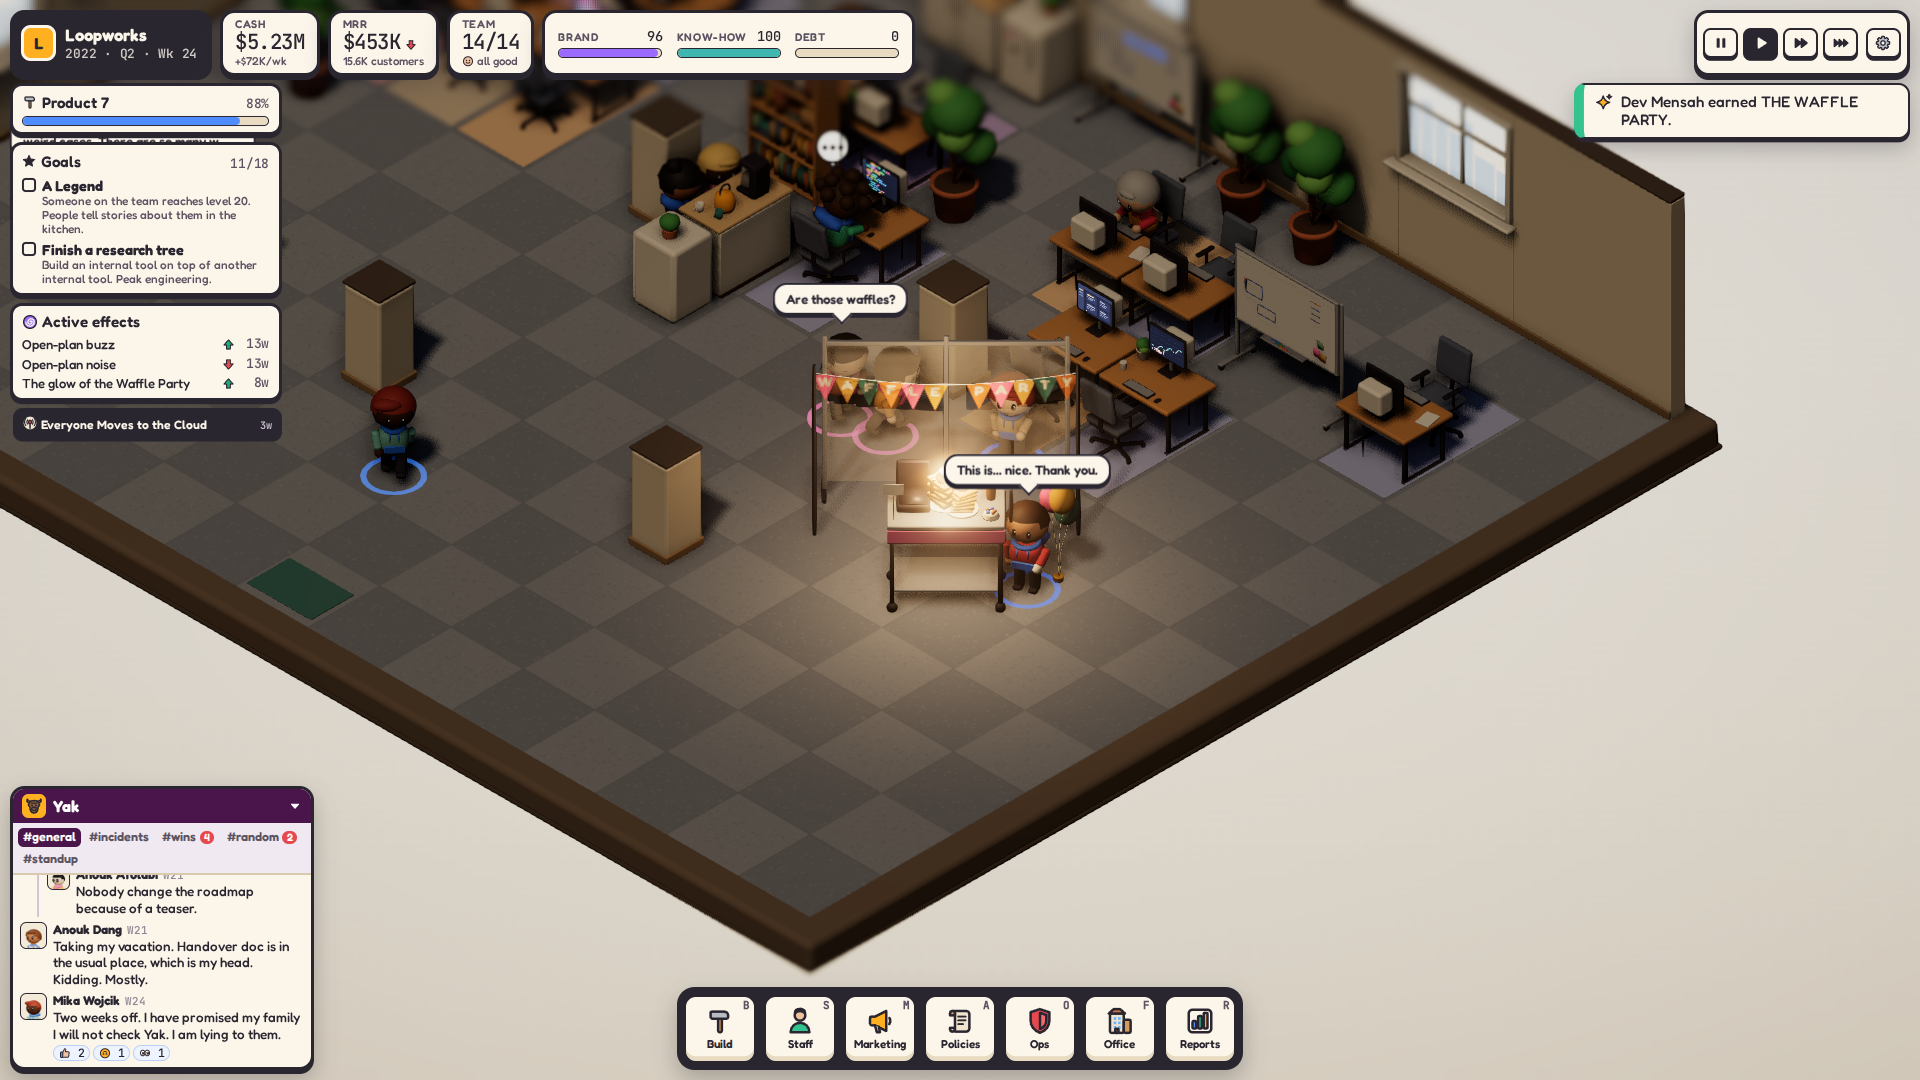
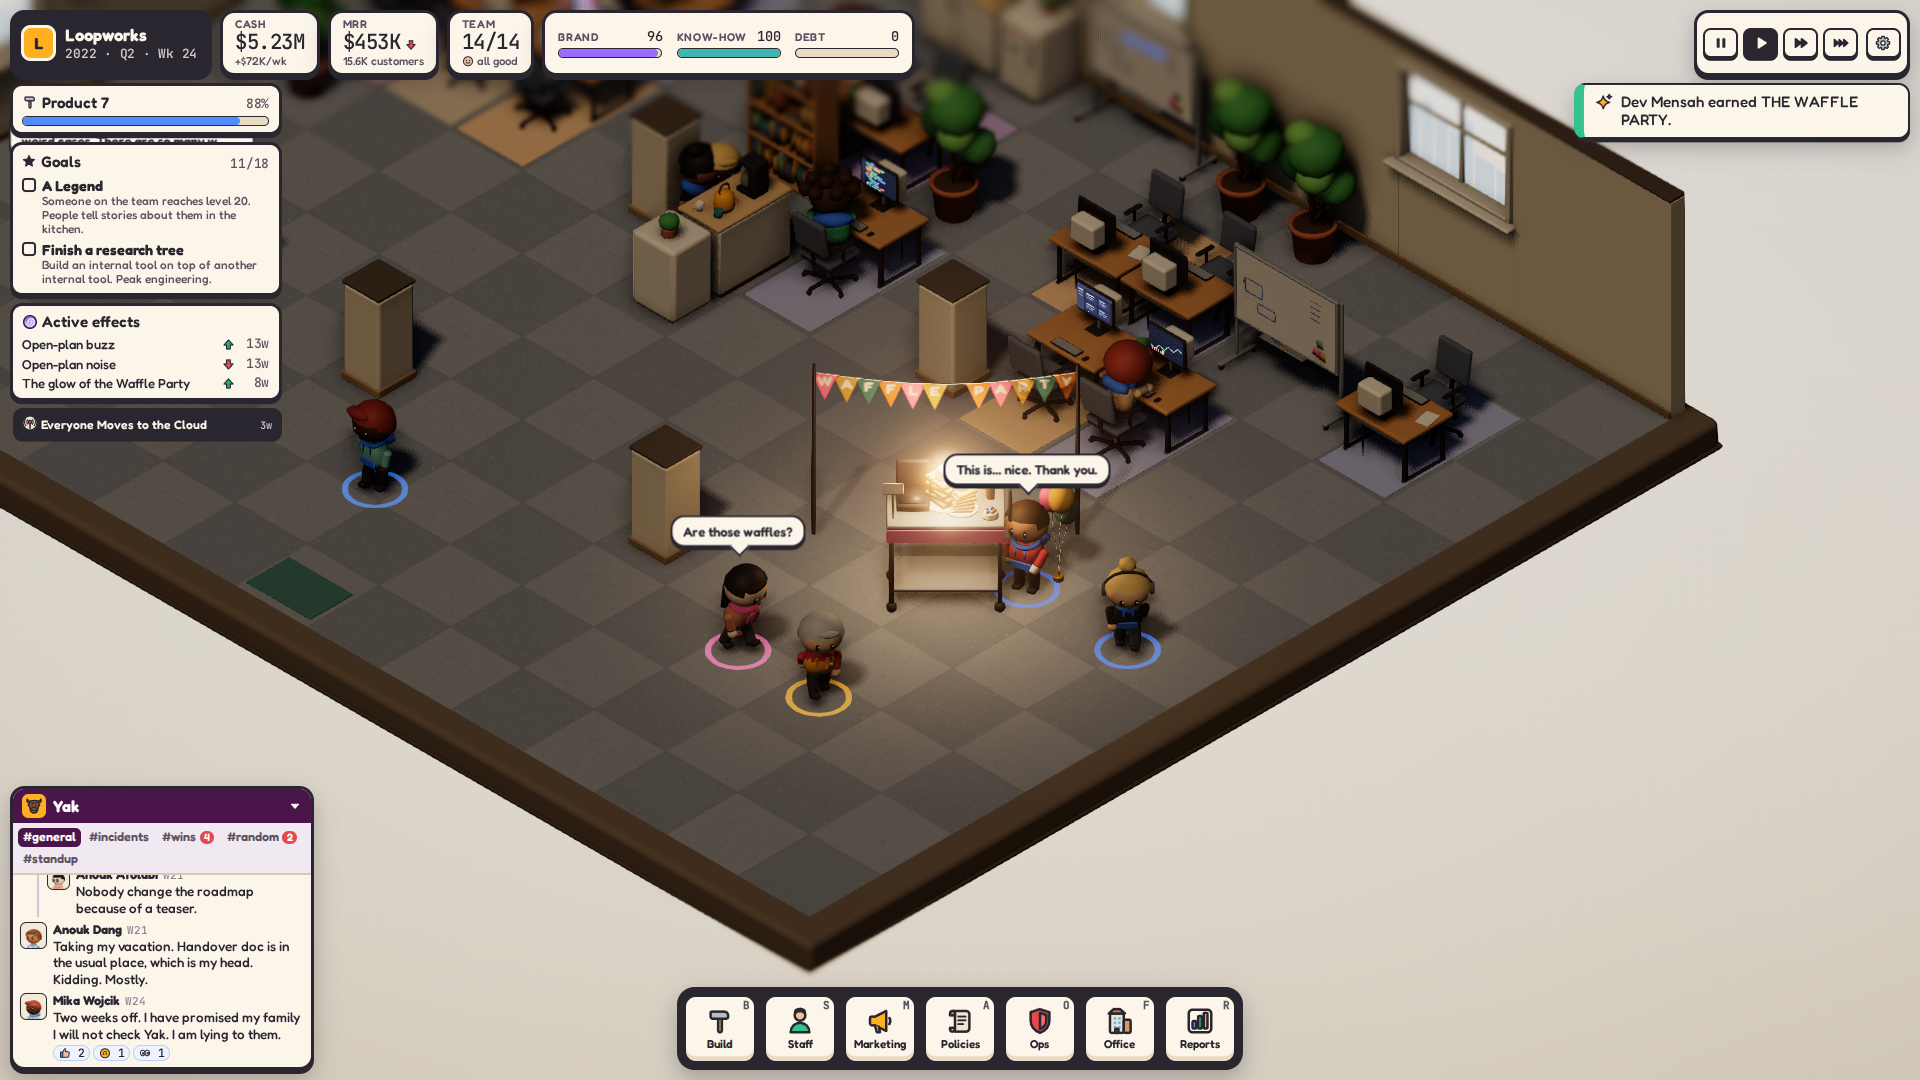
docs(readme): retake the Waffle Party still with the crowd on the camera side

diff --git a/scripts/capture-manifest.js b/scripts/capture-manifest.js
@@ -300,7 +300,7 @@ export const ITEMS = [
     id: '5-4-waffle-party-real', title: '5.4 Waffle Party in a real game', query: 'seed=1&speed=1', seconds: 30,
     setup: WAFFLE_SETUP,
     actions: WAFFLE_ACTIONS(30),
-    screenshots: [11, 14, 18],
+    screenshots: [15, 18, 22],
   },
   {
     id: '5-5-burnout-resign', title: '5.5 Burnout and a resignation', query: 'mock=floor&speed=1', seconds: 16,
@@ -375,9 +375,9 @@ export const ITEMS = [
     actions: DISMISS_EVERY(6), screenshots: [6],
   },
   {
-    // Shot as the winner speaks, before the watchers behind the glass start their envy emotes.
+    // Shot as the winner speaks, before the watching crowd starts its envy emotes.
     id: 'readme-waffle', group: 'readme', title: 'The Waffle Party in a real game', query: 'seed=1&speed=1', still: true,
-    setup: WAFFLE_SETUP, actions: WAFFLE_ACTIONS(13), screenshots: [12.75],
+    setup: WAFFLE_SETUP, actions: WAFFLE_ACTIONS(19), screenshots: [18],
   },
   {
     id: 'readme-loop', group: 'readme', title: 'The office in motion (loop)', query: 'seed=1&speed=1&time=day', seconds: 7, warmup: 6, hideUi: true,
